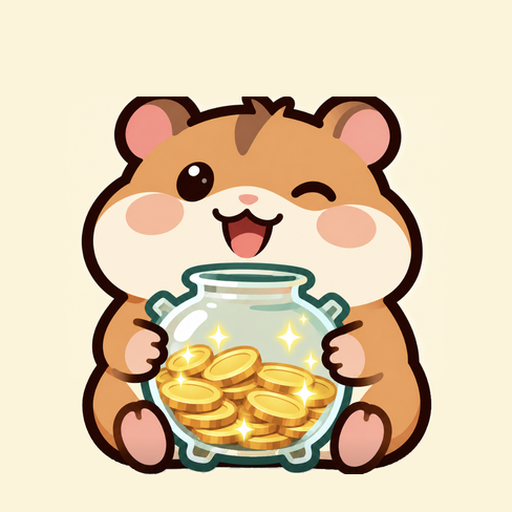
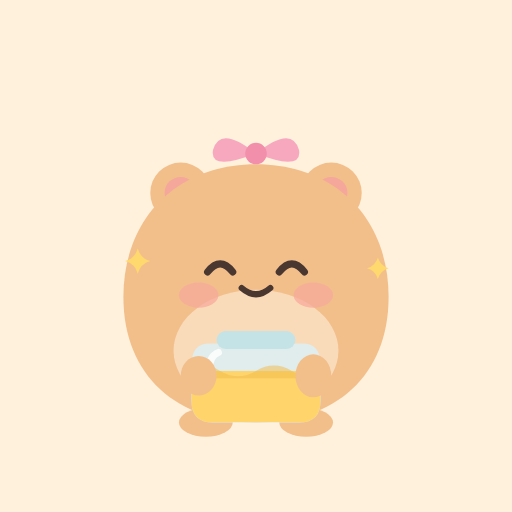
캐릭터 새로 그림: 테두리 없는 파스텔 동글이 햄스터(점 눈 · 볼터치), 레벨 Lv.1~6(저금병이 점점 차고 새싹 → 꽃 → 리본 → 화관 → 왕관), 앱 아이콘도 같은 그림으로

diff --git a/app.js b/app.js
@@ -733,7 +733,7 @@ function openEarned() {
 }
 
 /* ================= 첫 화면: 나의 상태 · 월말 결산 ================= */
-// 한 달 결과로 다음 달 칭호를 정한다 (햄스터 그림은 레벨로: img/hamster-1~5)
+// 한 달 결과로 다음 달 칭호를 정한다 (햄스터 그림은 레벨로: img/hamster-1~6, tools/draw-hamsters.mjs로 그림)
 function monthStats(key) {
   const exp = periodEntries(key).filter(e => e.type === '지출');
   return { days: new Set([...periodEntries(key), ...state.held.filter(h => periodOf(h) === key)].map(e => e.date)).size,
@@ -755,16 +755,16 @@ function monthLook(key) {
     : allReviewed(key) ? '꼼꼼한 리뷰러' : '차곡차곡 햄스터';
   return { face: '🐥', title };
 }
-// 월말 결산 그림: 기록이 적었던 달은 걱정하는 햄스터, 아니면 윙크하는 햄스터
-const hamsterImg = look => `<img src="img/hamster-${look.face === '🐣' ? 1 : 3}.webp" alt="">`;
+// 월말 결산 그림: 기록이 적었던 달은 새싹 햄스터(Lv.1), 아니면 웃는 햄스터(Lv.3)
+const hamsterImg = look => `<img src="img/hamster-${look.face === '🐣' ? 1 : 3}.svg" alt="">`;
 function renderStatus() {
   const key = periodOfDate(today()), prev = shiftPeriod(key, -1), m = Number(key.slice(5));
   const hasPrev = periodEntries(prev).length > 0, look = hasPrev ? monthLook(prev) : { face: '🐣', title: '새내기 기록러' };
-  const cur = monthStats(key), lv = Math.min(5, Math.floor(earnedBadges().length / 3) + 1); // 배지 3개마다 Lv.1씩, Lv.5까지 (저금통이 점점 차오름)
+  const cur = monthStats(key), lv = Math.min(6, Math.floor(earnedBadges().length / 3) + 1); // 배지 3개마다 Lv.1씩, Lv.6까지 (저금통이 점점 차오름)
   const { start } = periodRange(key), day = Math.round((parse(today()) - parse(start)) / 864e5) + 1;
   const goal = (state.settings.goals || {})[key] || '', rq = reviewQueue().length;
   $('#home-status').innerHTML = `<div class="card status">
-    <div class="st-top"><div class="st-face lv${lv}"><img class="st-art" src="img/hamster-${lv}.webp" alt="Lv.${lv} 햄스터"><span class="st-lv">Lv.${lv}</span></div>
+    <div class="st-top"><div class="st-face lv${lv}"><img class="st-art" src="img/hamster-${lv}.svg" alt="Lv.${lv} 햄스터"><span class="st-lv">Lv.${lv}</span></div>
       <div style="flex:1;min-width:0"><p class="st-title">${esc(look.title)} · ${m}월 ${day}일째</p>
         <button class="st-goal-big${goal ? '' : ' empty'}" data-goal aria-label="${m}월 다짐 ${goal ? '고치기' : '적기'}"><span class="g-lab">🎯 ${m}월 다짐</span>${goal
           ? `${esc(goal)} <span class="g-pen">✎</span>` : '<span class="g-add">＋ 이번 달 다짐 적기</span>'}</button></div></div>

diff --git a/style.css b/style.css
@@ -472,7 +472,7 @@ h1,h2,.btn,.seg button,nav.tabs button,.period .title b,.hero,.goal b,.review-ca
 .status .st-top{display:flex;gap:14px;align-items:center}
 .st-face{position:relative;width:84px;height:84px;border-radius:28px;background:#FBF3DA;flex:none}
 .st-art{display:block;width:100%;height:100%;border-radius:inherit;object-fit:cover}
-.st-face.lv5{box-shadow:0 0 0 2px #FFD45C,0 0 14px color-mix(in srgb,#FFC93C 60%,transparent)}
+.st-face.lv6{box-shadow:0 0 0 2px #FFD45C,0 0 14px color-mix(in srgb,#FFC93C 60%,transparent)}
 .st-face .st-lv{position:absolute;bottom:-6px;right:-6px;background:var(--ink);color:var(--on-ink);font-size:12px;line-height:1.3;font-family:var(--round),sans-serif;border-radius:999px;padding:2px 8px;border:2px solid var(--card)}
 .st-title{margin:0;font-size:12px;font-weight:700;color:var(--t-strong)}
 .status h2{margin:2px 0;font-size:19px}
@@ -509,7 +509,7 @@ h1,h2,.btn,.seg button,nav.tabs button,.period .title b,.hero,.goal b,.review-ca
 .rc-months{display:grid;grid-template-columns:1fr 22px 1fr;align-items:center;gap:4px;margin-top:12px}
 .rc-mo{border-radius:20px;padding:12px 6px;text-align:center;background:var(--page)}
 .rc-mo.now{background:linear-gradient(140deg,#FFE3D4,#FFF3C9)}
-.rc-face img{display:block;width:58px;height:58px;margin:0 auto;border-radius:18px}
+.rc-face img{display:block;width:58px;height:58px;margin:0 auto;border-radius:18px;background:#FBF3DA}
 .rc-mo b{display:block;font:14px var(--round),sans-serif;margin-top:2px}
 .rc-mo span{font-size:11px;color:var(--t2)}
 .rc-arrow{text-align:center;color:var(--ink);font:18px var(--round),sans-serif}
